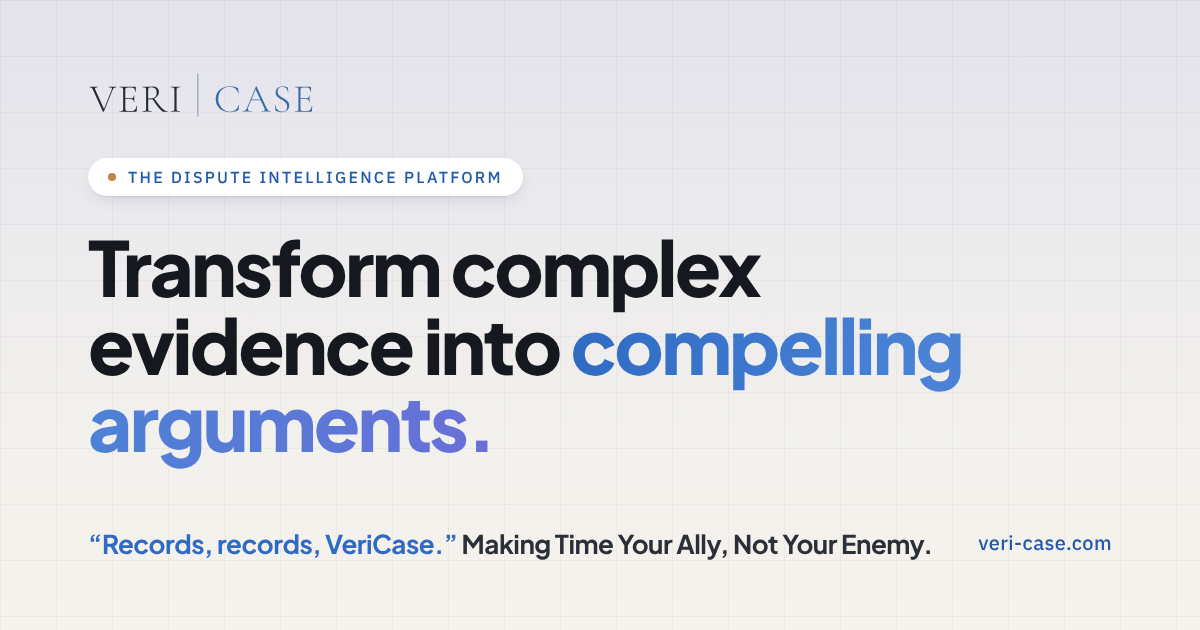
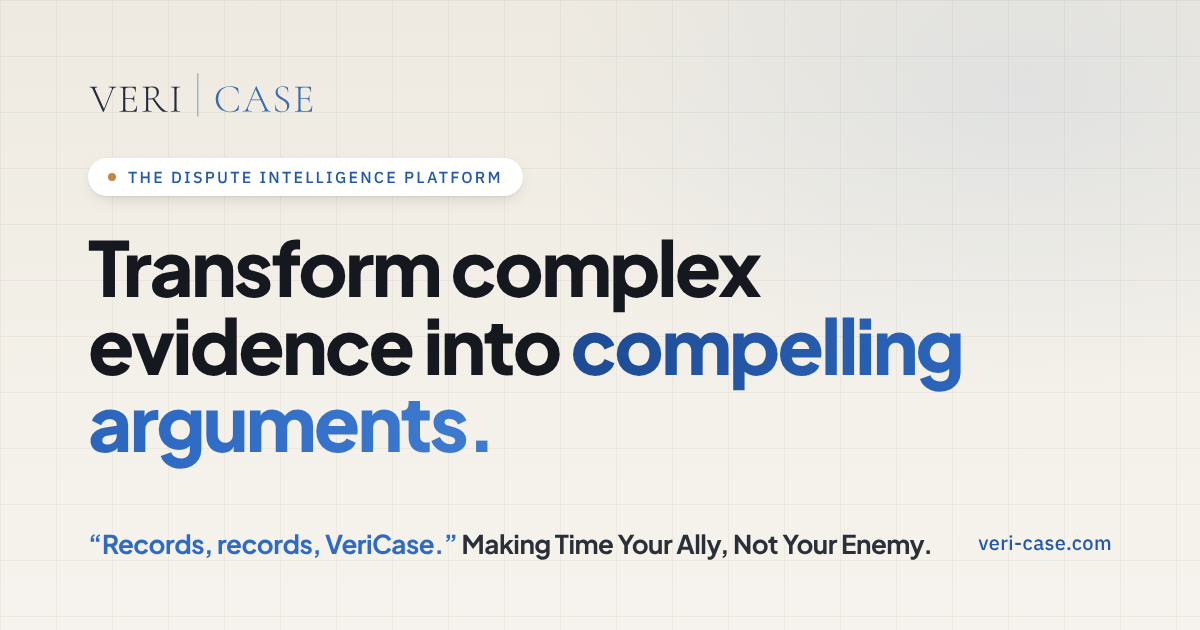
Show "arguments." on iPhone and give the opening a stronger lead (#16)
* Fix the hidden "arguments." on iPhone and rewrite the opening lead

Safari does not paint background-clip text inside an inline-block, so the
emphasised phrase is now plain text joined by a no-break space. The lead
opens on the reader's problem, a second button leads to the research
example, and the microcopy is clearer.

Claude-Session: https://claude.ai/code/session_01HPRgSUboRJQKsJwuzzyF62

* Warm the opening, carry the near-black into the clock band

The lilac opening becomes warm stone with a warm hairline grid and a faint
blue light; the emphasis gradient loses its violet end and the indigo
tiles become slate navy. The clock band takes the footer's near-black,
lit by blue and copper, and the demonstration band is a brighter blue.

Claude-Session: https://claude.ai/code/session_01HPRgSUboRJQKsJwuzzyF62

---------

Changed region(s): [[0.4625, 0.4825, 0.8017, 0.6333], [0.0617, 0.6333, 0.4008, 0.754]]

diff --git a/frontend/src/components/sections/clarity.css b/frontend/src/components/sections/clarity.css
@@ -1,6 +1,6 @@
 /* The working record: paper, green ink and measured brass rules. */
 .clarity-hero { padding: clamp(2.5rem, 5vw, 5rem) 0 3rem; }
-.section-kicker { display: inline-flex; align-items: center; gap: 0.625rem; width: fit-content; max-width: 100%; margin-bottom: 1.5rem; padding: 0.4375rem 1rem; border: 1px solid rgb(21 24 31 / 0.06); border-radius: 999px; background: #fff; box-shadow: 0 1px 2px rgb(21 24 31 / 0.05), 0 4px 14px -6px rgb(40 59 100 / 0.18); font-size: 0.8125rem; font-weight: 600; letter-spacing: 0.14em; text-transform: uppercase; color: var(--vc-brass-700); }
+.section-kicker { display: inline-flex; align-items: center; gap: 0.625rem; width: fit-content; max-width: 100%; margin-bottom: 1.5rem; padding: 0.4375rem 1rem; border: 1px solid rgb(21 24 31 / 0.06); border-radius: 999px; background: #fff; box-shadow: 0 1px 2px rgb(21 24 31 / 0.05), 0 4px 14px -6px rgb(52 44 30 / 0.18); font-size: 0.8125rem; font-weight: 600; letter-spacing: 0.14em; text-transform: uppercase; color: var(--vc-brass-700); }
 .section-kicker::before { content: ''; width: 0.4375rem; height: 0.4375rem; flex: none; border-radius: 999px; background: var(--vc-copper); }
 .clarity-hero-grid { display: grid; gap: 2rem; align-items: end; }
 .clarity-title { max-width: 16ch; font-size: clamp(2.75rem, 4.6vw, 4.375rem); font-weight: 800; letter-spacing: -0.035em; line-height: 0.98; text-wrap: initial; }
@@ -28,7 +28,7 @@
 /* The motto as a card in the reference's manner: a window bar, a deep blue panel for the quoted
    line, the typed line on white beneath it, and two notes floating at its corners. */
 .hero-motto { position: relative; max-width: 34rem; }
-.motto-card { padding: 0.875rem 0.875rem 3rem; border: 1px solid rgb(21 24 31 / 0.06); border-radius: 28px; background: rgb(255 255 255 / 0.92); box-shadow: 0 1px 2px rgb(21 24 31 / 0.04), 0 30px 60px -24px rgb(40 59 100 / 0.32); }
+.motto-card { padding: 0.875rem 0.875rem 3rem; border: 1px solid rgb(21 24 31 / 0.06); border-radius: 28px; background: rgb(255 255 255 / 0.92); box-shadow: 0 1px 2px rgb(21 24 31 / 0.04), 0 30px 60px -24px rgb(52 44 30 / 0.32); }
 .motto-card-bar { display: flex; align-items: center; gap: 0.875rem; padding: 0.25rem 0.5rem 0.875rem; }
 .motto-card-label { font-size: 0.75rem; font-weight: 600; letter-spacing: 0.14em; text-transform: uppercase; color: var(--vc-graphite); }
 .hero-motto-text { margin: 0; }
@@ -47,10 +47,10 @@
 .motto-key { position: relative; }
 .hero-motto-source { position: relative; margin: 1.25rem 1.25rem 0; padding-top: 1rem; font-size: 0.9375rem; line-height: 1.55; color: var(--vc-graphite); text-wrap: pretty; }
 .hero-motto-source::before { content: ''; position: absolute; top: 0; left: 0; width: 2.5rem; height: 1px; background: var(--vc-brass-400); transform-origin: left; }
-.motto-chip { position: absolute; z-index: 1; display: flex; align-items: center; gap: 0.75rem; padding: 0.75rem 1.125rem 0.75rem 0.75rem; border: 1px solid rgb(21 24 31 / 0.06); border-radius: 16px; background: #fff; box-shadow: 0 1px 2px rgb(21 24 31 / 0.05), 0 18px 36px -14px rgb(40 59 100 / 0.35); white-space: nowrap; }
+.motto-chip { position: absolute; z-index: 1; display: flex; align-items: center; gap: 0.75rem; padding: 0.75rem 1.125rem 0.75rem 0.75rem; border: 1px solid rgb(21 24 31 / 0.06); border-radius: 16px; background: #fff; box-shadow: 0 1px 2px rgb(21 24 31 / 0.05), 0 18px 36px -14px rgb(52 44 30 / 0.35); white-space: nowrap; }
 .motto-chip strong { display: block; font-size: 0.9375rem; font-weight: 700; color: var(--vc-navy); }
 .motto-chip small { display: block; font-size: 0.8125rem; color: var(--vc-graphite); }
-.motto-chip-tile { display: grid; place-items: center; width: 2.5rem; height: 2.5rem; flex: none; border-radius: 12px; background: linear-gradient(135deg, #3B4A93 0%, #5673D2 100%); color: #fff; }
+.motto-chip-tile { display: grid; place-items: center; width: 2.5rem; height: 2.5rem; flex: none; border-radius: 12px; background: linear-gradient(135deg, #22385F 0%, #3D5E96 100%); color: #fff; }
 .motto-chip-tile.is-copper { background: linear-gradient(135deg, #B9783C 0%, #D7954E 100%); }
 .motto-chip-answer { top: -1.75rem; right: -1.75rem; }
 .motto-chip-bundle { bottom: -1.75rem; right: 2rem; }
@@ -93,12 +93,15 @@
 /* The application's workspace cards: a blue tile with a white icon above the title. */
 .capability-tile { display: inline-flex; align-items: center; justify-content: center; width: 2.75rem; height: 2.75rem; margin-bottom: 1rem; border-radius: 12px; background: linear-gradient(135deg, #2F6BC4, #4A83D6); color: #fff; box-shadow: 0 8px 18px -8px rgb(47 107 196 / 0.7); }
 /* The reference's three tile colours, in turn: blue, indigo, copper. */
-.capability-group:nth-child(3n + 2) .capability-tile { background: linear-gradient(135deg, #3B4A93, #5673D2); box-shadow: 0 8px 18px -8px rgb(64 80 151 / 0.7); }
+.capability-group:nth-child(3n + 2) .capability-tile { background: linear-gradient(135deg, #22385F, #3D5E96); box-shadow: 0 8px 18px -8px rgb(34 56 95 / 0.5); }
 .capability-group:nth-child(3n) .capability-tile { background: linear-gradient(135deg, #B9783C, #D7954E); box-shadow: 0 8px 18px -8px rgb(191 128 67 / 0.7); }
 .capability-tile svg { width: 1.375rem; height: 1.375rem; stroke-width: 1.75; }
 /* The opening as the reference sets it: a cool light ground warming to off-white under a faint
    grid, near-black type and the emphasis in the blue running to indigo. */
-.hero-grid { background-color: #EEEDF2; background-image: linear-gradient(rgb(21 24 31 / 0.035) 1px, transparent 1px), linear-gradient(90deg, rgb(21 24 31 / 0.035) 1px, transparent 1px), linear-gradient(180deg, #E4E3EC 0%, #F3F1ED 70%, #F6F2EC 100%); background-size: 56px 56px, 56px 56px, 100% 100%; }
+/* The opening's ground (owner, 09 October 2026: the lilac "lost a lot of sophistication"): warm
+   stone, the page's own parchment family, with the grid drawn in a warm hairline and a faint
+   light of the brand blue behind the motto card. */
+.hero-grid { background-color: #F3F0E9; background-image: radial-gradient(52rem 32rem at 82% 18%, rgb(47 107 196 / 0.07), transparent 70%), linear-gradient(rgb(70 58 38 / 0.045) 1px, transparent 1px), linear-gradient(90deg, rgb(70 58 38 / 0.045) 1px, transparent 1px), linear-gradient(180deg, #EEEAE1 0%, #F4F1EA 65%, #F6F3EE 100%); background-size: 100% 100%, 56px 56px, 56px 56px, 100% 100%; }
 .text-gradient, .clarity-title em { background: var(--vc-gradient-text); -webkit-background-clip: text; background-clip: text; color: var(--vc-azure-700); -webkit-text-fill-color: transparent; }
 .clarity-hero .live-figure.app-example { background: none; border: 0; box-shadow: none; padding-inline: 0; }
 .capability-group h3 { font-size: 1.875rem; }

diff --git a/frontend/og/og.html b/frontend/og/og.html
@@ -14,12 +14,12 @@
      emphasis, and the white pill kicker with its copper dot. */
   * { box-sizing: border-box; margin: 0; }
   html, body { width: 1200px; height: 630px; }
-  body { position: relative; overflow: hidden; color: #15181F; font-family: 'IBM Plex Sans', sans-serif; background-color: #EEEDF2; background-image: linear-gradient(rgb(21 24 31 / 0.04) 1px, transparent 1px), linear-gradient(90deg, rgb(21 24 31 / 0.04) 1px, transparent 1px), linear-gradient(180deg, #E4E3EC 0%, #F3F1ED 70%, #F6F2EC 100%); background-size: 56px 56px, 56px 56px, 100% 100%; }
+  body { position: relative; overflow: hidden; color: #15181F; font-family: 'IBM Plex Sans', sans-serif; background-color: #F3F0E9; background-image: radial-gradient(700px 420px at 85% 15%, rgb(47 107 196 / 0.08), transparent 70%), linear-gradient(rgb(70 58 38 / 0.05) 1px, transparent 1px), linear-gradient(90deg, rgb(70 58 38 / 0.05) 1px, transparent 1px), linear-gradient(180deg, #EEEAE1 0%, #F4F1EA 65%, #F6F3EE 100%); background-size: 100% 100%, 56px 56px, 56px 56px, 100% 100%; }
   .logo { position: absolute; left: 88px; top: 72px; height: 46px; }
-  .kicker { position: absolute; left: 88px; top: 158px; display: flex; align-items: center; gap: 12px; padding: 9px 20px; border-radius: 999px; background: #fff; box-shadow: 0 1px 2px rgb(21 24 31 / 0.05), 0 6px 18px -8px rgb(40 59 100 / 0.25); font-size: 16px; font-weight: 500; letter-spacing: 0.14em; text-transform: uppercase; color: #2359A8; }
+  .kicker { position: absolute; left: 88px; top: 158px; display: flex; align-items: center; gap: 12px; padding: 9px 20px; border-radius: 999px; background: #fff; box-shadow: 0 1px 2px rgb(21 24 31 / 0.05), 0 6px 18px -8px rgb(52 44 30 / 0.25); font-size: 16px; font-weight: 500; letter-spacing: 0.14em; text-transform: uppercase; color: #2359A8; }
   .kicker::before { content: ''; width: 8px; height: 8px; border-radius: 999px; background: #C38446; }
   h1 { position: absolute; left: 88px; top: 228px; width: 900px; font-family: 'Plus Jakarta Sans', sans-serif; font-weight: 800; font-size: 76px; line-height: 1.02; letter-spacing: -0.035em; }
-  h1 em { font-style: normal; background: linear-gradient(95deg, #2F6BC4 0%, #4A83D6 45%, #6A6FD8 100%); -webkit-background-clip: text; background-clip: text; -webkit-text-fill-color: transparent; }
+  h1 em { font-style: normal; background: linear-gradient(95deg, #1D4A93 0%, #2F6BC4 60%, #3F7BD0 100%); -webkit-background-clip: text; background-clip: text; -webkit-text-fill-color: transparent; }
   .lead { position: absolute; left: 88px; bottom: 70px; font-family: 'Plus Jakarta Sans', sans-serif; font-weight: 700; font-size: 26px; letter-spacing: -0.02em; color: #2A2F38; }
   .lead em { font-style: normal; color: #2F6BC4; }
   .url { position: absolute; right: 88px; bottom: 74px; font-size: 20px; font-weight: 500; letter-spacing: 0.02em; color: #2359A8; }

diff --git a/frontend/src/index.css b/frontend/src/index.css
@@ -21,10 +21,10 @@
     --vc-azure-50: #EAF0F9; --vc-azure-300: #9DBBEA; --vc-azure-500: #4A83D6; --vc-azure-700: #2F6BC4;
     --vc-parchment: #F3F1ED; --vc-parchment-300: #ECEAE4; --vc-paper: #FBFAF7;
     --vc-rule: #DEDCD6; --vc-rule-strong: #74766D; --vc-brass-400: #C38446; --vc-brass-700: #2359A8;
-    --vc-indigo: #5673D2; --vc-copper: #C38446; --vc-copper-300: #D7954E;
-    --vc-gradient-text: linear-gradient(95deg, #2F6BC4 0%, #4A83D6 45%, #6A6FD8 100%);
+    --vc-indigo: #3D5E96; --vc-copper: #C38446; --vc-copper-300: #D7954E;
+    --vc-gradient-text: linear-gradient(95deg, #1D4A93 0%, #2F6BC4 60%, #3F7BD0 100%);
     --vc-gradient-button: linear-gradient(135deg, #2D62B4 0%, #4A83D6 100%);
-    --vc-shadow-card: 0 1px 2px rgb(21 24 31 / 0.04), 0 12px 32px -12px rgb(40 59 100 / 0.18);
+    --vc-shadow-card: 0 1px 2px rgb(21 24 31 / 0.04), 0 12px 32px -12px rgb(52 44 30 / 0.18);
     --vc-signal: #A8352A; --vc-signal-300: #EE8E7E;
     /* The records on the ink panels: the app's warm white sheet with a very faint grain (fibres
        and mottling drawn by SVG noise, so it tiles without seams and costs no request), a lighter
@@ -109,8 +109,12 @@
   .on-ink .on-paper :focus-visible { outline-color: var(--vc-azure-500); }
   /* The deep blue band of the reference (its "Forensic timeline" card), white text keeping 4.5:1
      across it. Used for the clock and the demonstration; the footer is the near-black. */
-  .on-blue { --vc-on-blue-soft: #E3EAF6; background: linear-gradient(120deg, #283B64 0%, #3367B6 100%); }
+  .on-blue { --vc-on-blue-soft: #E3EAF6; background: linear-gradient(120deg, #1F3A6E 0%, #2C5FAE 60%, #3570C4 100%); }
   .on-blue.is-deep { background: #15181F; }
+  /* The near-black of the footer, carried up into the page (owner, 09 October 2026: "the black at
+     the bottom just looks really sophisticated ... it just needs mixing up"), lit by the brand
+     blue and a touch of copper so that it keeps its vibrancy. */
+  .on-blue.is-ink { --vc-on-blue-soft: #D9DEE7; background: radial-gradient(46rem 28rem at 88% 0%, rgb(47 107 196 / 0.42), transparent 70%), radial-gradient(34rem 22rem at 0% 100%, rgb(195 132 70 / 0.16), transparent 70%), #15181F; }
   .on-ink.on-blue, .on-blue :is(h1, h2, h3, h4) { color: #fff; }
   .on-blue :focus-visible { outline-color: #fff; }
   /* The application's windows keep their own light colours on the blue. */

diff --git a/frontend/src/components/sections/Hero.jsx b/frontend/src/components/sections/Hero.jsx
@@ -1,11 +1,14 @@
 import { COVER } from '@/content/home';
 import { DemoCTA } from '@/components/editorial/DemoCTA';
+import { onSectionClick } from '@/lib/navigate';
 import { HeroMotto } from './HeroMotto';
 import { SearchExample } from './examples/SearchExample';
 
-// The emphasised phrase keeps all but its first word together, so that browsers without balanced
-// wrapping never leave "arguments." alone.
+// The emphasised phrase keeps all but its first word together with no-break spaces, so that
+// browsers without balanced wrapping never leave its last word alone. It is plain text: Safari
+// does not paint the gradient text of an inline-block inside it, which hid "arguments." on iPhone.
 const [emphasisFirst, ...emphasisRest] = COVER.h1Emphasis.split(' ');
+const heroSecondary = { label: COVER.heroSecondary.label, href: `#${COVER.heroSecondary.section}`, onClick: onSectionClick(COVER.heroSecondary.section) };
 
 export const Hero = () => (
   <section id="top" aria-labelledby="top-title" className="clarity-hero hero-grid">
@@ -15,10 +18,10 @@ export const Hero = () => (
           them the motto set as a card. On narrower screens they follow one another. */}
       <div className="clarity-hero-grid">
         <div className="hero-main">
-          <h1 id="top-title" tabIndex={-1} className="clarity-title"><span>{COVER.h1Lead}</span> <em>{emphasisFirst} <span className="inline-block max-w-full">{emphasisRest.join(' ')}</span></em></h1>
+          <h1 id="top-title" tabIndex={-1} className="clarity-title"><span>{COVER.h1Lead}</span> <em>{emphasisFirst} {emphasisRest.join('\u00a0')}</em></h1>
           <p className="hero-lead">{COVER.lead}</p>
           <div className="hero-introduction">
-            <DemoCTA placement="hero" section="top" className="hero-action" microcopy="By email. Please use sample material." />
+            <DemoCTA placement="hero" section="top" className="hero-action" microcopy={COVER.heroMicrocopy} secondary={heroSecondary} />
           </div>
         </div>
         <div className="hero-side">

diff --git a/frontend/src/components/editorial/DemoCTA.jsx b/frontend/src/components/editorial/DemoCTA.jsx
@@ -10,7 +10,7 @@ import { cn } from '@/lib/utils';
 // microcopy. No form submits anything. The compact form is for the header band: the same
 // mailto and copy fallback, with the copy button reduced to an icon and the confirmation
 // announced rather than shown. Manual-copy guidance remains visible if copying fails.
-export const DemoCTA = ({ onInk = false, withCopy = false, compact = false, microcopy = CTA_MICROCOPY, className, align = 'start', placement, section }) => {
+export const DemoCTA = ({ onInk = false, withCopy = false, compact = false, microcopy = CTA_MICROCOPY, className, align = 'start', placement, section, secondary }) => {
   const plain = useRef(null);
   const [copied, setCopied] = useState(false);
   const [copyFailed, setCopyFailed] = useState(false);
@@ -79,6 +79,11 @@ export const DemoCTA = ({ onInk = false, withCopy = false, compact = false, micr
           <Mail className="h-4 w-4" strokeWidth={1.5} aria-hidden="true" />
           {CTA_LABEL}
         </a>
+        {secondary && (
+          <a href={secondary.href} onClick={secondary.onClick} className={cn('vc-btn vc-btn-secondary', onInk && 'vc-btn-secondary-on-ink')}>
+            {secondary.label}
+          </a>
+        )}
         {withCopy && (
           <button type="button" onClick={copy} className={cn('vc-btn vc-btn-secondary', onInk && 'vc-btn-secondary-on-ink')}>
             <Copy className="h-4 w-4" strokeWidth={1.5} aria-hidden="true" />

diff --git a/frontend/src/content/home.js b/frontend/src/content/home.js
@@ -81,8 +81,12 @@ export const COVER = {
   h1: "Transform complex evidence into compelling arguments.",
   h1Lead: "Transform complex evidence into",
   h1Emphasis: "compelling arguments.",
-  // Search and quick questions stay the focal point (owner, 09 October 2026).
-  lead: "Search every email and document on your project and ask it questions in plain English. Every answer comes with its sources, ready for the report, the bundle or the claim.",
+  // Search and quick questions stay the focal point (owner, 09 October 2026). Rewritten the same
+  // evening after the owner found the first version "so basic": it opens on the reader's problem
+  // (the facts are there, but buried), then the answer, then where it leads.
+  lead: "The facts that win a dispute are already in your records, buried in years of emails and attachments. Ask VeriCase in plain English and get the answer with its source, ready for the report, the bundle or the claim.",
+  heroSecondary: { label: 'See it answer a question', section: 'research' },
+  heroMicrocopy: "We arrange it by email. Please bring sample material, not live client files.",
   practitionerProof: "Founded by construction claims and dispute resolution practitioners.",
   audience: "For contractors, subcontractors and commercial teams, and the consultants and advisers they work with.",
   fastPath: "Explore how it works",

diff --git a/frontend/src/components/sections/examples/app-example.css b/frontend/src/components/sections/examples/app-example.css
@@ -22,7 +22,7 @@
 .live-figure.app-example .live-replay:hover { color: var(--vc-navy); }
 .live-figure.app-example .typed { --caret: var(--vc-ink); }
 
-.app-window { margin-top: 1.25rem; overflow: hidden; border: 1px solid rgb(21 24 31 / 0.08); border-radius: 20px; background: #fff; box-shadow: 0 30px 60px -30px rgb(40 59 100 / 0.35), 0 1px 2px rgb(21 24 31 / 0.05); font-size: 0.875rem; line-height: 1.5; }
+.app-window { margin-top: 1.25rem; overflow: hidden; border: 1px solid rgb(21 24 31 / 0.08); border-radius: 20px; background: #fff; box-shadow: 0 30px 60px -30px rgb(52 44 30 / 0.35), 0 1px 2px rgb(21 24 31 / 0.05); font-size: 0.875rem; line-height: 1.5; }
 .app-window svg { width: 1rem; height: 1rem; flex: none; stroke-width: 1.75; }
 
 /* The bar: the mark, the project, and the view on the right. */

diff --git a/frontend/src/components/sections/TimeAdvantage.jsx b/frontend/src/components/sections/TimeAdvantage.jsx
@@ -1,7 +1,7 @@
 import { TIME_ADVANTAGE } from '@/content/marketing';
 
 export const TimeAdvantage = () => (
-  <section id="clock" aria-labelledby="clock-title" className="clarity-section time-advantage on-ink on-blue">
+  <section id="clock" aria-labelledby="clock-title" className="clarity-section time-advantage on-ink on-blue is-ink">
     <div className="container time-advantage-grid">
       <h2 id="clock-title" tabIndex={-1} className="clarity-heading">{TIME_ADVANTAGE.title}</h2>
       <div className="time-advantage-copy">

diff --git a/docs/design/current-contract.md b/docs/design/current-contract.md
@@ -14,7 +14,7 @@ Section design (owner, 06 October 2026, “the thread”): each capability secti
 
 Collaboration (owner, 06 October 2026) has its own section, “Keep the discussion with the evidence.”, after the bundle section: the issue of the email relay, the method, four steps, a strip of three figures with notes 1 to 3, the app example of one email read, tagged and discussed, and “Who it is for” as the section’s closing statement, set large on a parchment band under a brass rule (owner, 06 October 2026: it “just gets lost”). The notes are no longer printed on the home page: each marker opens its note in a pop-up that links through to the full note on the Notes and sources page (`/notes`), which is also linked from the footer, and each note there links back to the section citing it. The figures are Microsoft’s average of 117 emails a day; one round of email about one document modelled as six emails and fourteen inbox deliveries; and the professional time on those rounds modelled at about £18,300 for an adjudication of 120 rounds, on the rates the owner verified on 06 October 2026, labelled as a modelled cost and not a measured saving. The figures (gate G13) and the statement that each lane is read only by the people added to it (gate G14, no longer shown since lanes were removed on 09 October 2026) were confirmed by the owner on 06 October 2026; the [capability register](website-capability-register.md) (E12, E13) records their basis and the conflict between the owner’s account of lane visibility and the product source reviewed.
 
-Opening copy, revised 09 October 2026 after the reference screenshots: the owner preferred the reference's headline (“transforming compelling arguments... whatever the rest of that passage was, was better”) and its kicker (“The Dispute Intelligence Platform was better”). The opening now reads **Transform complex evidence into compelling arguments.** under the kicker “The Dispute Intelligence Platform”, without the reference's “legal”, so that it still speaks to any client; a lead sentence beneath it keeps search and plain English questions as the focal point, and the demonstration action follows it in the same column. The owner found the motto as set “extremely basic”, so it is now a card in the reference's manner beside the heading: a window bar, the quoted line in heavy white type on a deep blue panel, the typed line beneath it on white, the credit, and two illustrative notes (“Answer found”, “Bundle ready”) at its corners, hidden on phones. Its timing and the reduced motion rules are unchanged. The sharing card follows the new opening. What follows records the earlier opening.
+Opening copy, revised 09 October 2026 after the reference screenshots: the owner preferred the reference's headline (“transforming compelling arguments... whatever the rest of that passage was, was better”) and its kicker (“The Dispute Intelligence Platform was better”). The opening now reads **Transform complex evidence into compelling arguments.** under the kicker “The Dispute Intelligence Platform”, without the reference's “legal”, so that it still speaks to any client; a lead sentence beneath it keeps search and plain English questions as the focal point, and the demonstration action follows it in the same column. The owner found the motto as set “extremely basic”, so it is now a card in the reference's manner beside the heading: a window bar, the quoted line in heavy white type on a deep blue panel, the typed line beneath it on white, the credit, and two illustrative notes (“Answer found”, “Bundle ready”) at its corners, hidden on phones. Its timing and the reduced motion rules are unchanged. The sharing card follows the new opening. After the merge the owner found the lead “so basic” and, on iPhone, “unfinished” (Safari did not paint the gradient on “arguments.”, which sat in an inline block; the phrase is now plain text joined by a no-break space). The lead now opens on the reader’s problem: “The facts that win a dispute are already in your records, buried in years of emails and attachments. Ask VeriCase in plain English and get the answer with its source, ready for the report, the bundle or the claim.” A second button, “See it answer a question”, leads to the research section, and the microcopy reads “We arrange it by email. Please bring sample material, not live client files.” The same evening the owner found the lilac opening had “lost a lot of sophistication” and praised the near-black footer (“it just needs mixing up”), asking for vibrancy without looking “just for judges and lawyers”. Following the Working Record (ink for the turn “from project time to case time”, parchment as the reading ground), the opening stays light on warm stone (#F3F0E9) with a warm hairline grid and a faint blue light behind the motto card; the clock band moves to the footer’s near-black lit by blue and copper (`.on-blue.is-ink`); the demonstration keeps a brighter blue. The gradient on emphasised words is now blue only (#1D4A93 to #3F7BD0), and the indigo tiles become slate navy (#22385F to #3D5E96). What follows records the earlier opening.
 
 Opening copy (owner, 09 October 2026: more market-agnostic, for contractors, with “general searches and quick chatting with your evidence” as a focal point and “Simplicity.”): **All your project evidence. Search it. Ask it.** under the kicker “For contractors, subcontractors and commercial teams”, replacing “Evidence in order. Arguments on the record.” and “Construction claims and disputes”. The page title, description and sharing card follow it. What follows records the earlier opening. Opening copy: **Evidence in order. Arguments on the record.** (approved by the owner on 05 October 2026, replacing “Complex evidence. Compelling arguments.”, whose second half described an effect on the reader rather than the method). The category is construction claims and disputes. There is no supporting sentence (owner, 06 October 2026, after rejecting two): the motto stands opposite the heading, enlarged to two lines (“Records, records,” above “VeriCase.”), its first on the same baseline as “Evidence in order.”, with the credit beneath it and the demonstration action beneath that; the kicker spans both columns. Keep one demonstration action and concise email guidance. Audience detail belongs with collaboration and practitioner proof with the team introduction. On phones the opening uses a compact monochrome composition; desktop retains its existing editorial emphasis. Use green for principal headings, dark bronze for small action text on light grounds and pale text only over a verified dark surface. Keep readable prose, distinct section spacing and primary/standalone controls at least 44 pixels high.
 
